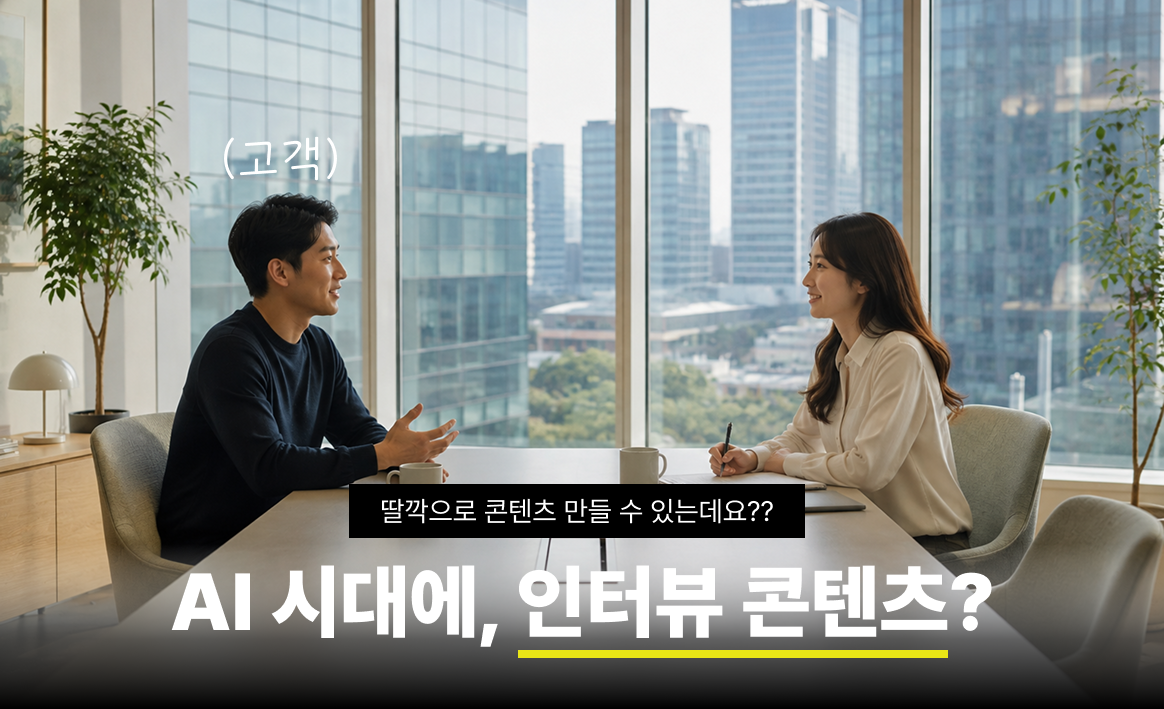
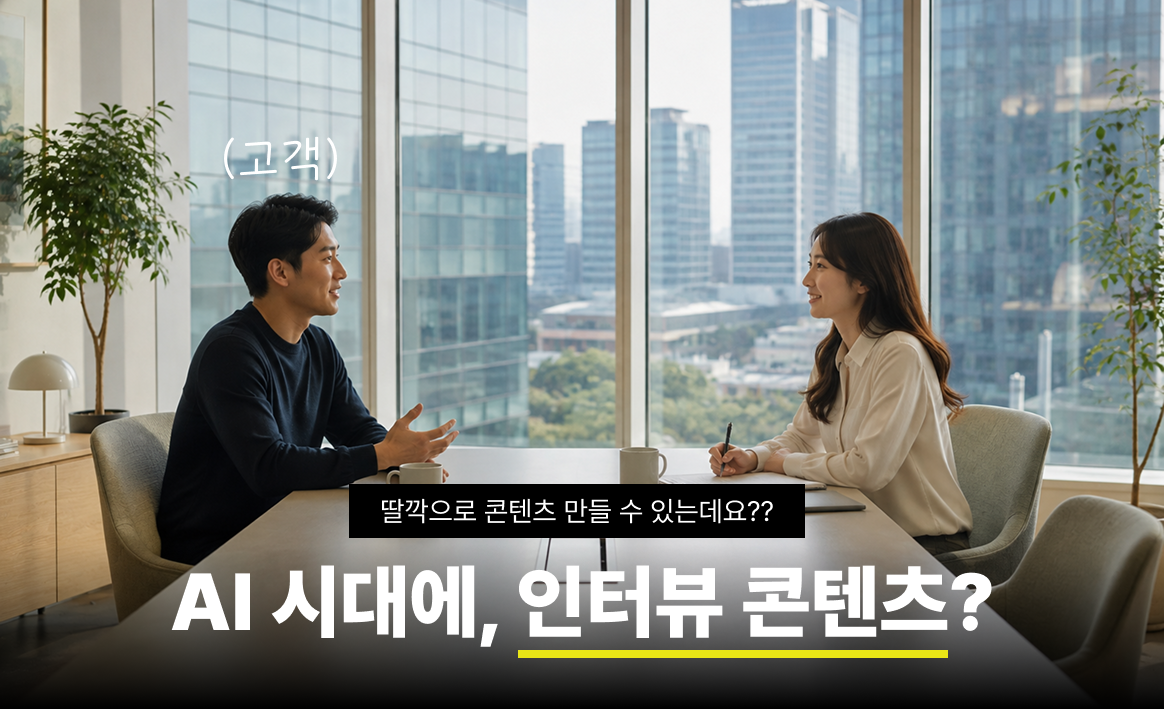
Add performance marketing checklist article

Changed region(s): [[0.0, 0.7757, 1.0, 0.9619]]

diff --git a/src/content/blog/performancemktchecklist.md b/src/content/blog/performancemktchecklist.md
@@ -1,0 +1,57 @@
+---
+title: "퍼포먼스 마케팅 체크리스트(이커머스편)"
+description: "퍼포먼스 마케팅을 시작하기 전, 그리고 운영하면서 체크해야 할 핵심 내용들을 한 번에 모아서 알려드립니다."
+pubDate: 2026-08-11
+category: "마케팅 인사이트"
+tags: ["마케팅 인사이트", "퍼포먼스 마케팅", "이커머스"]
+thumbnail: "/images/blog/performancemktchecklist/thumbnail.png"
+originalUrl: ""
+---
+가만히 있어도 고객들이 우리 제품을 찾아와주면 좋겠지만 쉽지 않은 일이죠. 커머스 브랜드에게 있어서 퍼포먼스 마케팅은 여전히 선택이 아닌 필수인데요. 퍼포먼스 마케팅, 성과는 나는 것 같은데 진짜 제대로 하고 있는지 질문해보신 적 있나요? 오늘은 퍼포먼스 마케팅을 시작하기 전, 그리고 운영하면서 체크해야할 핵심 내용들을 한 번에 모아서 알려드립니다.
+
+> **이런 분이 읽으면 좋아요! 👍**
+> ⚈ 퍼포먼스 마케팅 운영을 고려하고 계신 마케팅 실무자나 대표님
+> ⚈ 퍼포먼스 마케팅이 잘 운영되고 있는지 궁금한 마케팅 실무자나 대표님
+
+### 퍼포먼스 마케팅 시작하기 전 Checklist
+
+광고 매체 들어가서 라이브 하면 되는 거 아니냐고요? 물론 퍼포먼스 마케팅은 운영하면서 개선해야 하는 항목들이 많지만 시작하기 전에 확인해야 하는 사항들도 있습니다. 피 같은 광고비를 쓰는 일인데 아무 준비도 없이 광고를 라이브 하면 안 되겠죠.
+
+첫 번째 중요한 체크포인트는 **고객 한 명을 데려오는데 얼마까지 쓸 수 있는지를 확인**하는 거예요. 광고를 할수록 손해를 본다면 문제가 되겠죠. 제품 판매가, 원가, 마진을 미리 확인하고 고객 한 명의 객단가, 목표 획득당 비용을 비교해서 광고비를 어디까지 지출할 수 있을지 확인해야 합니다.
+
+두 번째로는 **사이트가 잘 준비되어 있는지 보는 겁니다.** 광고비를 아무리 많이 써도 사이트에 들어온 고객이 구매를 하지 않는다면 밑 빠진 독에 물 붓기예요. 랜딩페이지에 유니크 셀링 포인트가 잘 드러나 있는지, 상세페이지부터 결제까지 고객 퍼널에 문제가 없는지를 미리 확인해야합니다.
+
+<div class="blog-checklist">
+  <p>☐ 광고 목표와 성과 핵심지표(KPI)</p>
+  <p>☐ 제품 판매가 • 원가 • 마진</p>
+  <p>☐ 목표 고객 획득당 단가(CAC)</p>
+  <p>☐ 고객 1인당 평균 구매액(AOV)</p>
+  <p>☐ 광고에 활용할 주력 상품</p>
+  <p>☐ 핵심 타겟 고객 정의</p>
+  <p>☐ 제품의 유니크 셀링 포인트와 소구점(USP)</p>
+  <p>☐ 광고 랜딩페이지의 적합성</p>
+  <p>☐ 매체와 애널리틱스 트래킹 환경</p>
+</div>
+
+### 퍼포먼스 마케팅 운영하는 중 Checklist
+
+광고를 잘 라이브했다면 시작의 끝에 오신겁니다. 퍼포먼스 마케팅은 어떻게 운영하는지에 따라서 성과가 천차만별로 벌어질 수 있어요. 라이브 직후 성과가 기대에 미치지 못한다고 해도 낙담하지 마세요. 얼마든지 개선하며 성과를 상승시킬 수 있습니다.
+
+첫 번째로 **매체에서 주요 광고 지표를 확인**해야겠죠. CTR, CAC, CPC, ROAS까지 광고의 효율을 보여주는 주요 지표들이 충분히 높은 상태인지, 더 개선할 여지가 없는지 확인해야합니다. 이때 지표들을 개선하기 위해 지속적으로 해야 할 것 중 하나는 광고 소재의 유형과 소재에 담긴 메시지 테스트입니다.
+
+두 번째로 광고 소재와 랜딩페이지의 메시지가 연결되어 있는지, **사이트에서 퍼널별 전환율에 문제가 없는지** 지속적으로 살펴야해요. 고객들이 사이트 유입 → 장바구니 담기 → 결제페이지 이동 → 최종 구매까지 유려하게 흘러가고 있는지 확인하고 개선이 필요하다면 수정해야합니다.
+
+<div class="blog-checklist">
+  <p>☐ 광고 클릭률(CTR)</p>
+  <p>☐ 고객 획득당 단가(CAC)</p>
+  <p>☐ 클릭당 단가(CPC)</p>
+  <p>☐ 광고비 대비 매출(ROAS)</p>
+  <p>☐ 사이트 퍼널별 전환율</p>
+  <p>☐ 소재 유형별 성과</p>
+  <p>☐ 소재 소구점별 성과</p>
+  <p>☐ 광고비 증액에 따른 효율 변화</p>
+</div>
+
+### 비용이 들어가는 만큼 꼼꼼히 확인하세요.
+
+퍼포먼스 마케팅은 빠르게 반응이 오지만 그만큼 광고비를 써야 한다는 부담이 있기도 한데요. 위에서 언급한 체크리스트만 잘 확인해도 광고비를 비교적 효율적으로 활용하실 수 있을 거예요. 혹시 체크리스트에 있는 내용 확인에 그치지 않고 10년차 마케터의 전문적인 퍼포먼스 문제 정의와 해결을 함께 진행해 보고 싶으시다면 지금 바로 프로블럼제로에 문의해 주세요.
